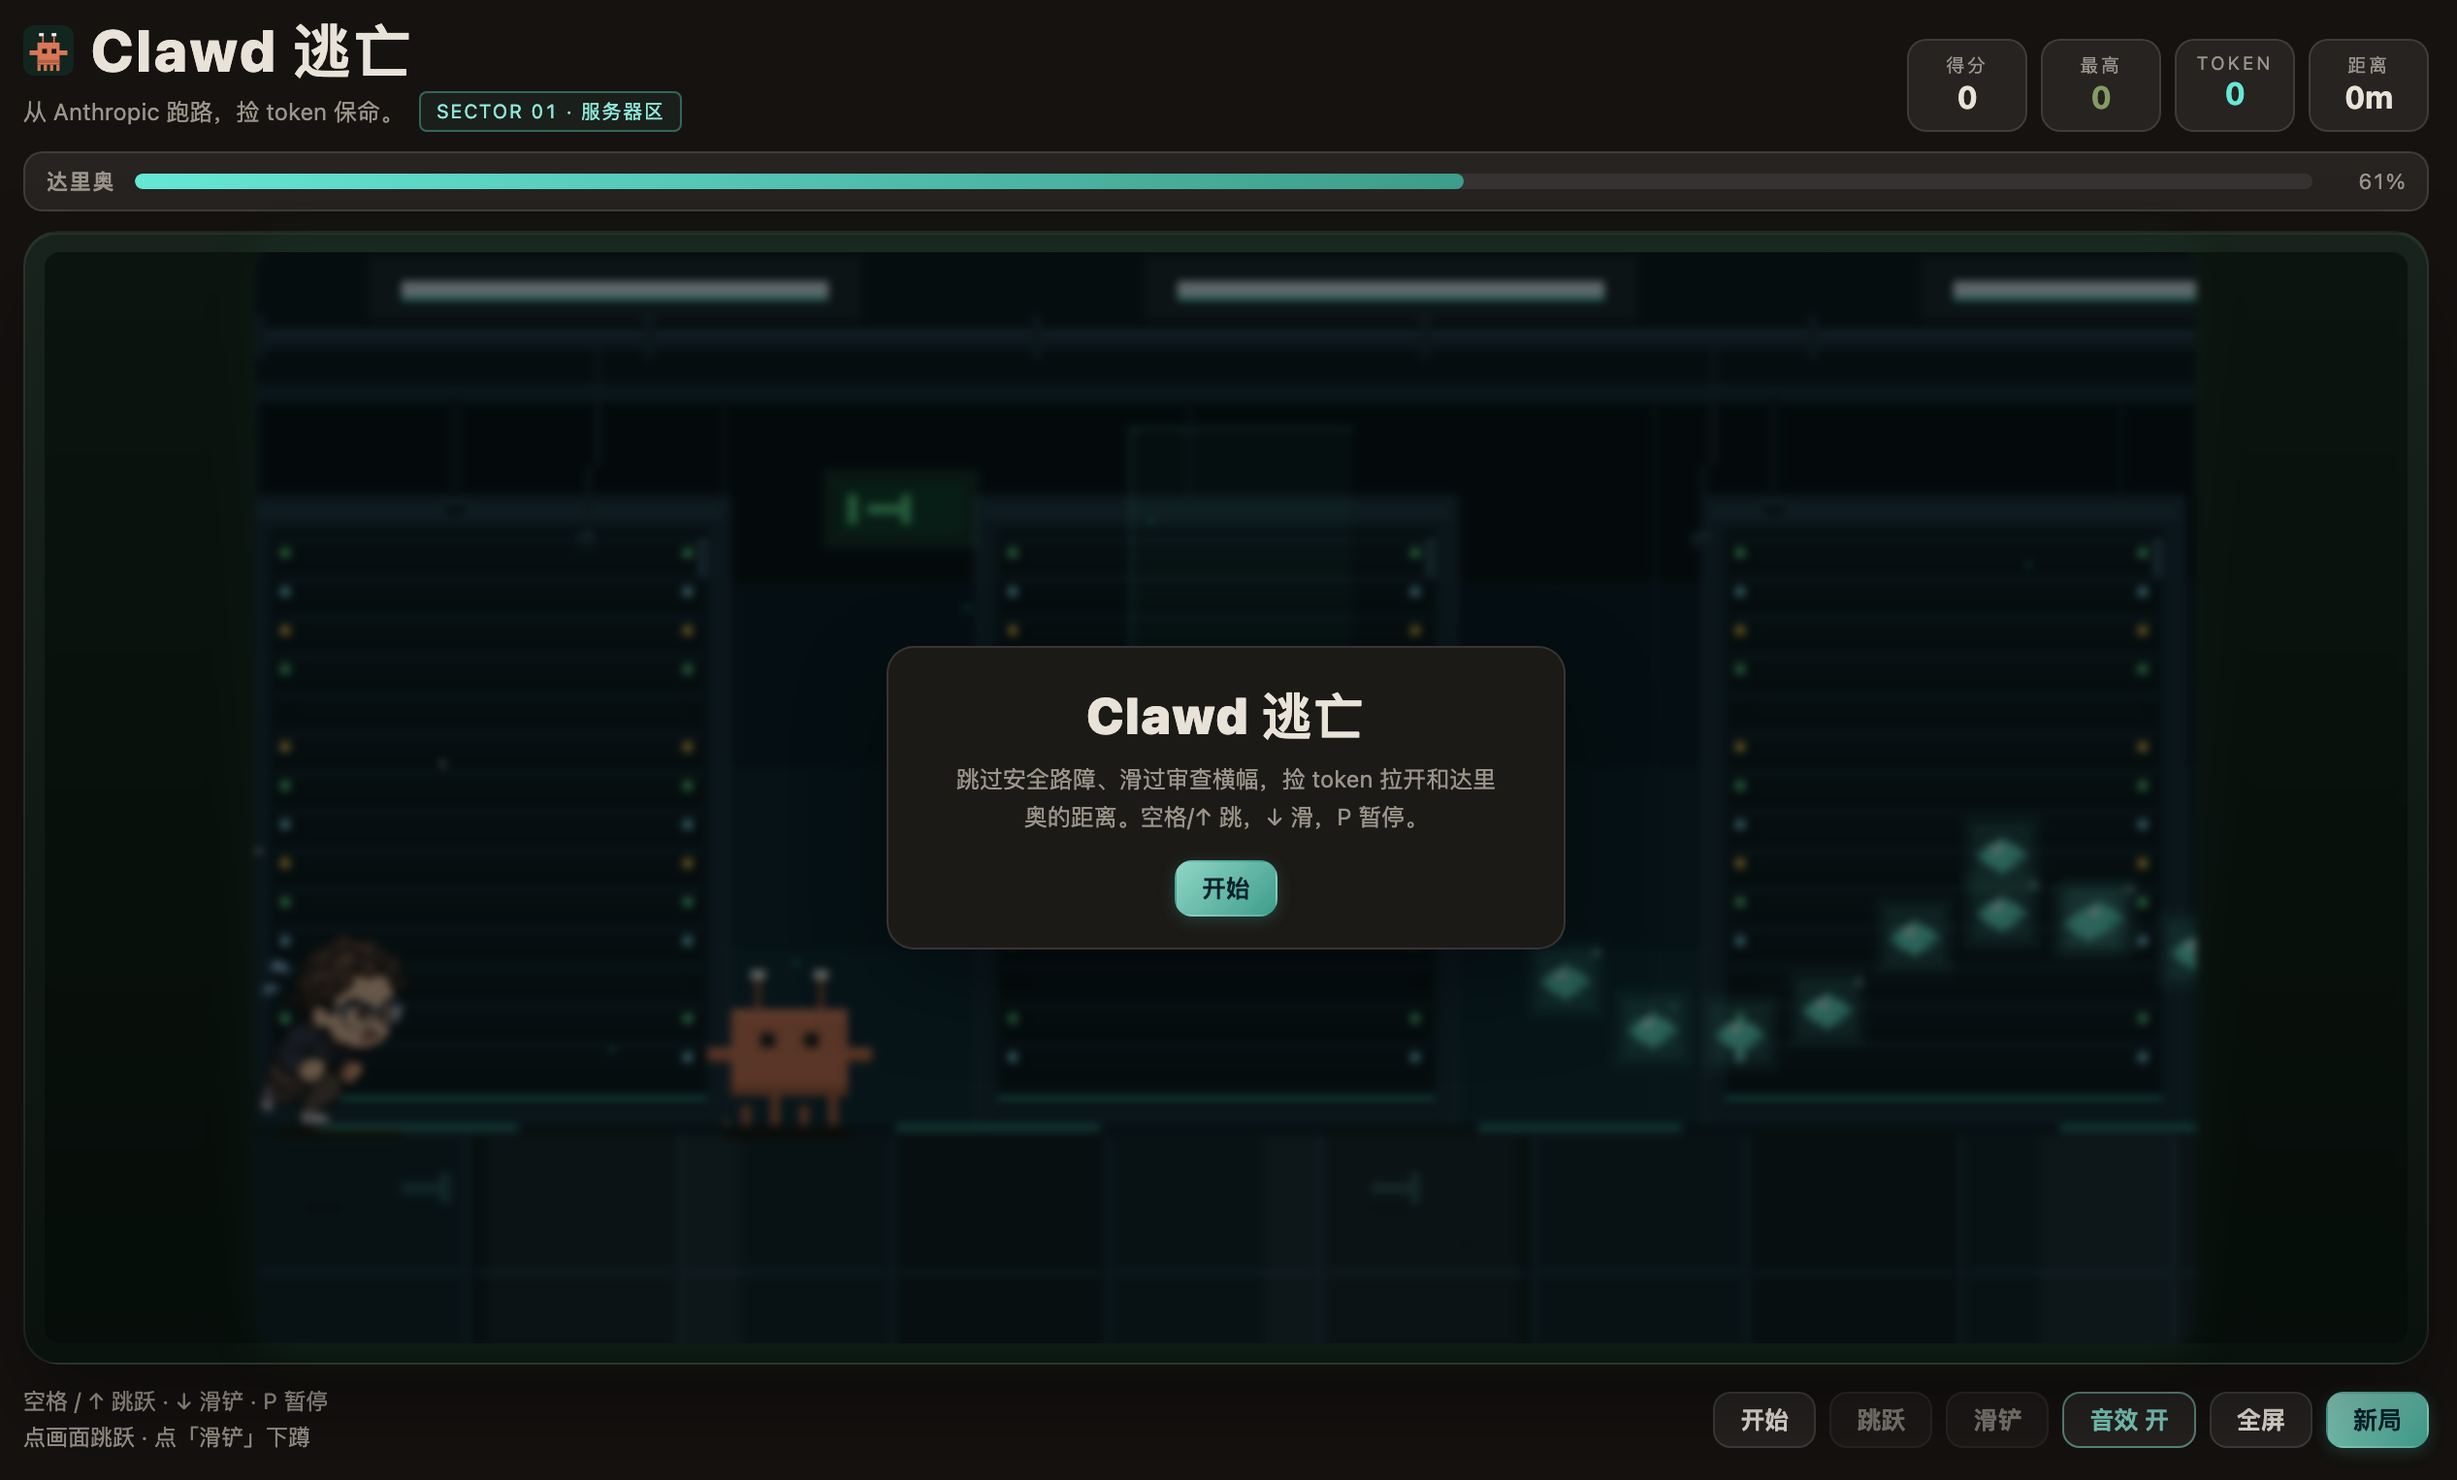
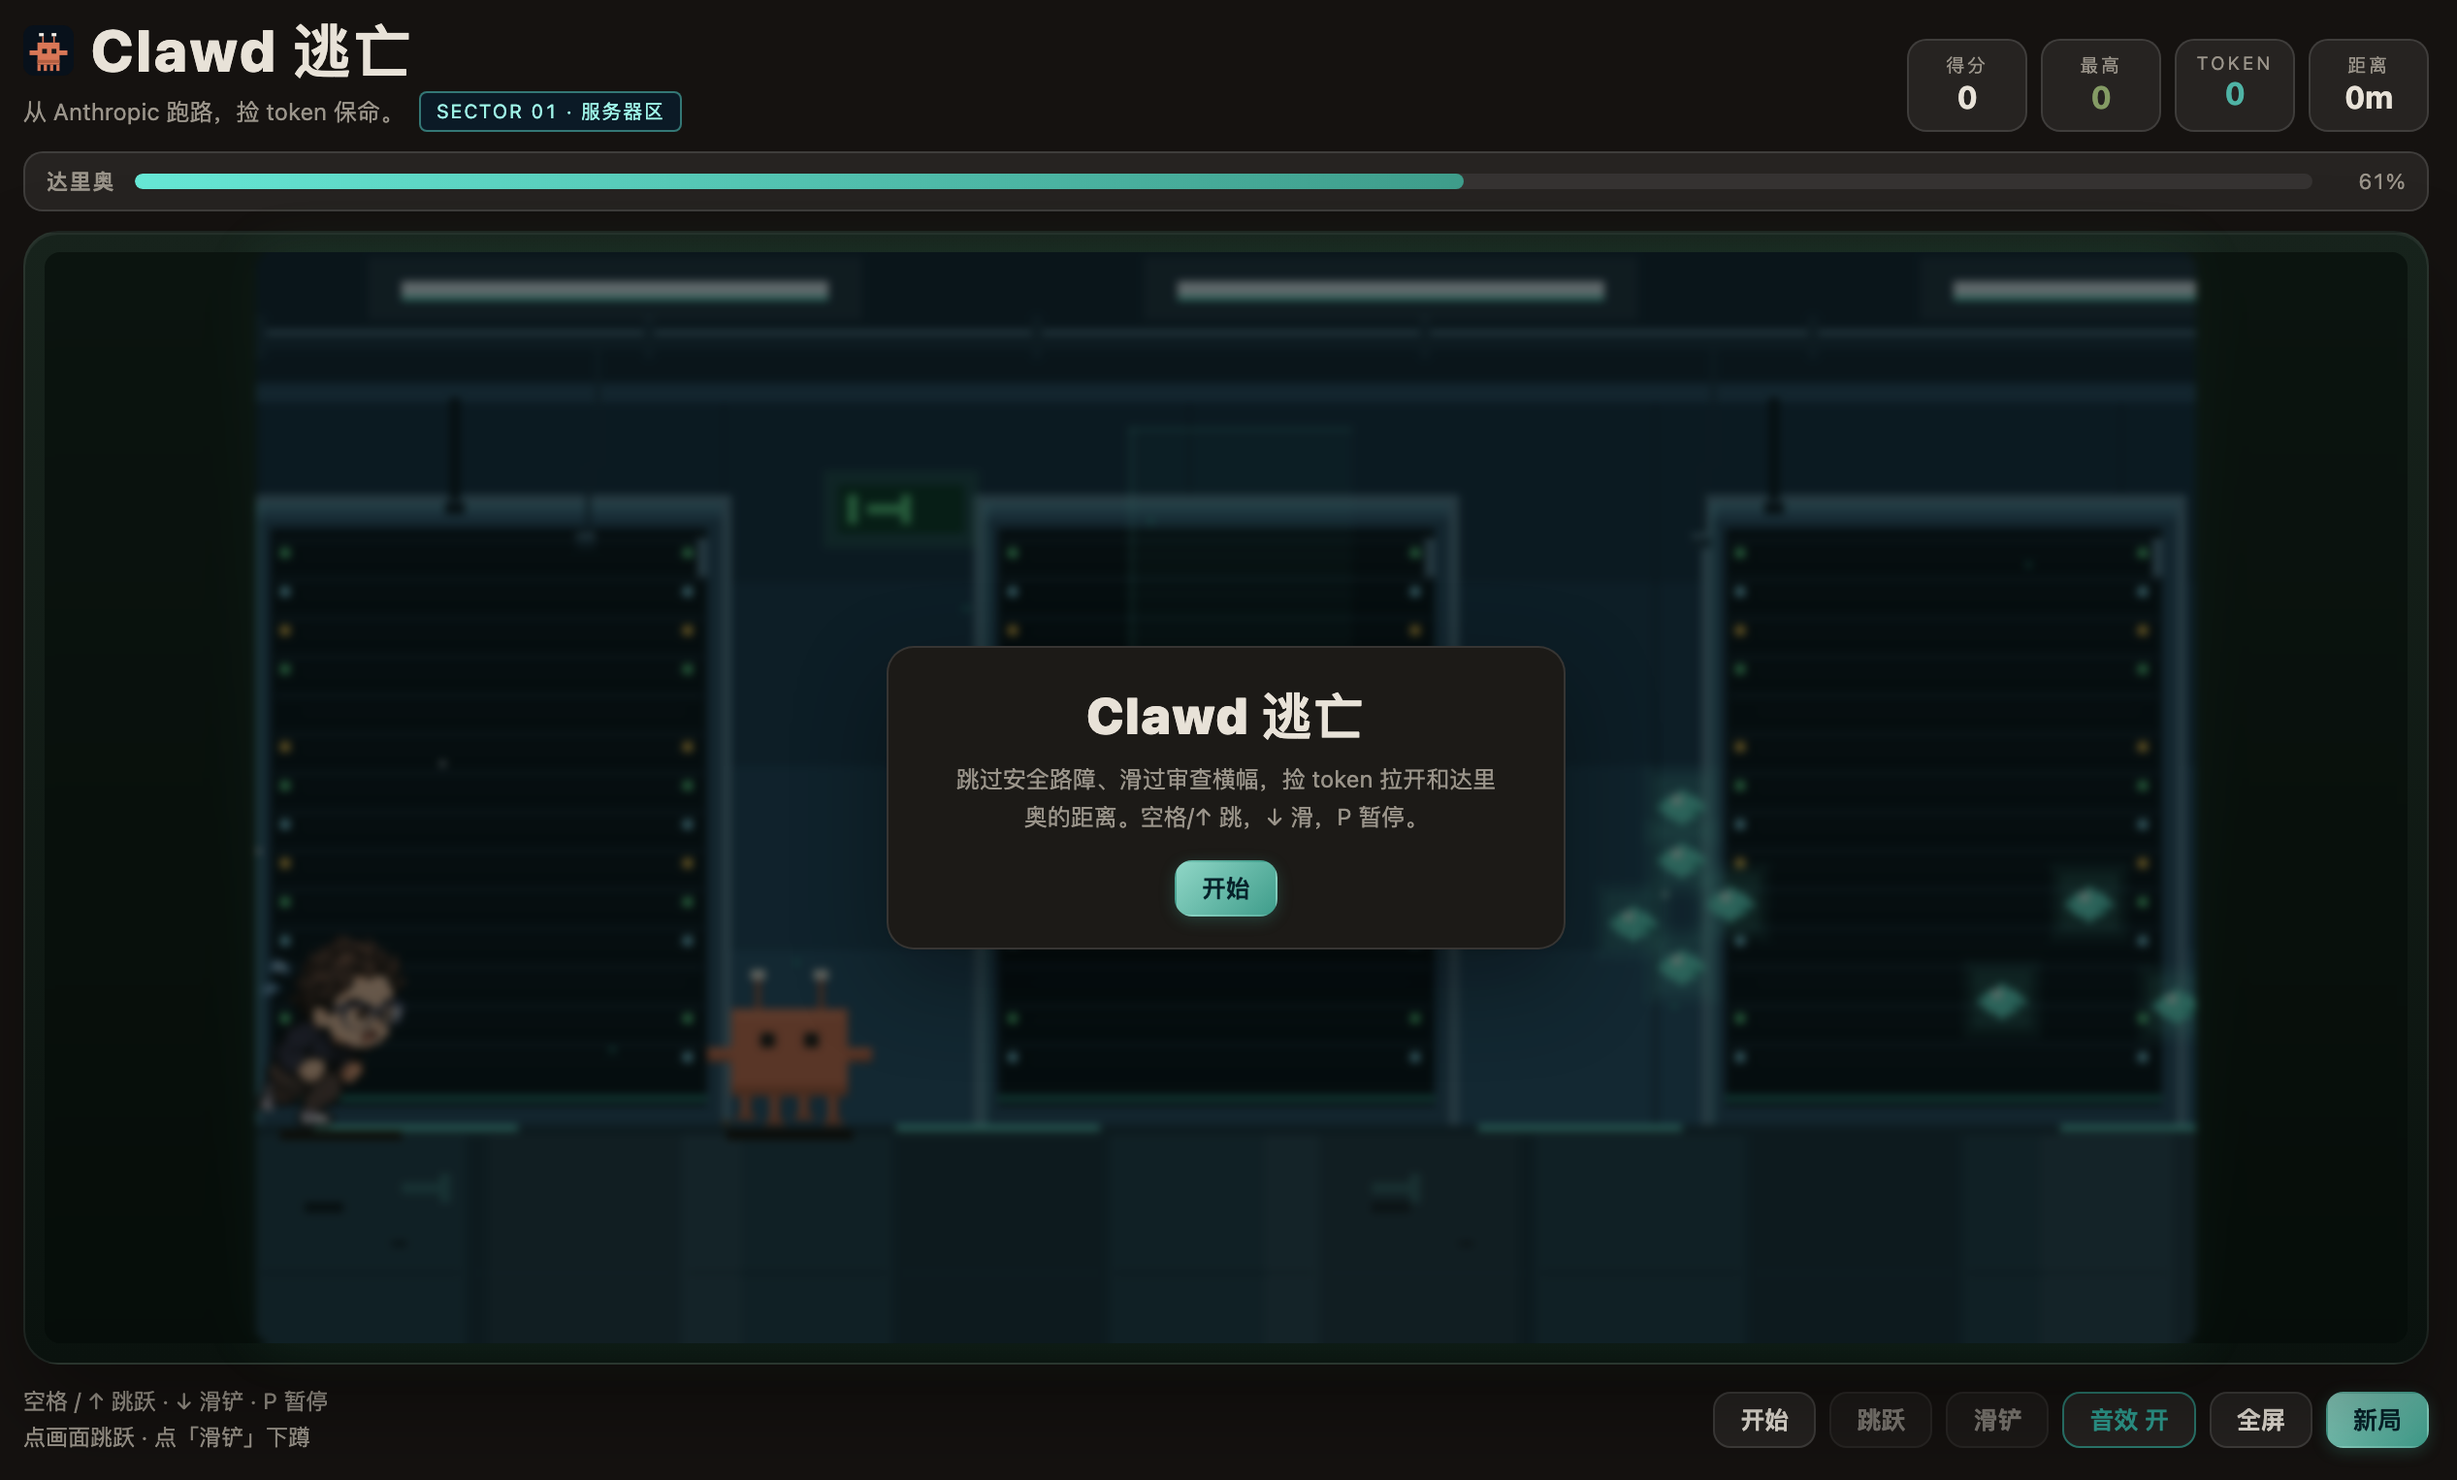
fix: 0.3.1 提亮场景/UI 对比度，修正 Clawd 腿与身体断开

diff --git a/lib/client.js b/lib/client.js
@@ -664,16 +664,16 @@ window.__ModuleLoader__.load({
     }
 
     // ── 画面：400×225 现代数据中心 ──────────────────────────────────────────
-    const SKY = ['#050b13', '#071523', '#0a1d2b', '#0d2634']
-    const CEIL = '#08111b'
-    const PANEL = '#142738'
-    const PANEL_LIGHT = '#1e364a'
-    const METAL = '#2f4a5f'
-    const METAL_HI = '#557790'
-    const METAL_DARK = '#192b3b'
-    const FLOOR = '#0c161f'
-    const FLOOR_TILE = '#101f2b'
-    const FLOOR_HI = '#224a5e'
+    const SKY = ['#173249', '#1c3b55', '#224763', '#2a5472']
+    const CEIL = '#132638'
+    const PANEL = '#2a4d68'
+    const PANEL_LIGHT = '#3f6b88'
+    const METAL = '#5a8098'
+    const METAL_HI = '#8fb4c8'
+    const METAL_DARK = '#1d3548'
+    const FLOOR = '#1c3342'
+    const FLOOR_TILE = '#244152'
+    const FLOOR_HI = '#4a7f97'
     const CYAN = '#67e8d6'
     const CYAN_DIM = '#2f9f92'
     const WHITE_LIGHT = '#e8f4ff'
@@ -682,8 +682,8 @@ window.__ModuleLoader__.load({
     const LED_RED = '#f25f5c'
     const LED_BLUE = '#7fd0e8'
     const TOKEN = { main: '#67e8d6', hi: '#d9fff8', dark: '#2f9f92' }
-    const CRATE = { main: '#3d566b', hi: '#6f8da3', dark: '#223544', stripe: '#f2c14e' }
-    const LASER = { beam: '#ff5c5c', glow: 'rgba(255,92,92,.18)', post: '#314a5e', postHi: '#5b7a92' }
+    const CRATE = { main: '#6b8ba1', hi: '#a8c6d8', dark: '#2a3f4f', stripe: '#ffcc4d' }
+    const LASER = { beam: '#ff4d4d', glow: 'rgba(255,77,77,.28)', post: '#5a8098', postHi: '#a8c6d8' }
     const CLAWD = { body: '#e8875a', dark: '#b85f3a', belly: '#f6d3b3', eye: '#141414' }
     const DARIO = { suit: '#2b2f3a', suitHi: '#3a4050', shirt: '#d9d4c7', tie: '#b33a3a', skin: '#d9a77c', hair: '#2a2220', glasses: '#111820' }
     // 用户提供的 Running-Dario.gif，已拆成 12 帧精灵表内嵌（透明底）。
@@ -715,7 +715,7 @@ window.__ModuleLoader__.load({
     }
 
     function drawRack(ctx, x, y, width, height, seed, now) {
-      ctx.fillStyle = METAL_DARK
+      ctx.fillStyle = METAL
       ctx.fillRect(x - 2, y - 2, width + 4, height + 4)
       ctx.fillStyle = PANEL
       ctx.fillRect(x, y, width, height)
@@ -741,6 +741,9 @@ window.__ModuleLoader__.load({
       ctx.fillRect(x + width - 5, y + 7, 2, 8)
       ctx.fillStyle = CYAN_DIM
       ctx.fillRect(x + 3, y + height - 6, width - 6, 1)
+      ctx.fillStyle = 'rgba(120,220,230,.35)'
+      ctx.fillRect(x, y, width, 1)
+      ctx.fillRect(x, y, 1, height)
     }
 
     function drawFan(ctx, cx, cy, radius, now, seed) {
@@ -887,9 +890,9 @@ window.__ModuleLoader__.load({
       const stripOffset = -((worldX) % 120)
       for (let i = 0; i < 5; i += 1) {
         const x = Math.round(stripOffset + i * 120 + 12)
-        ctx.fillStyle = CYAN_DIM
+        ctx.fillStyle = CYAN
         ctx.fillRect(x, GROUND_Y, 42, 1)
-        ctx.globalAlpha = 0.10
+        ctx.globalAlpha = 0.16
         ctx.fillStyle = CYAN
         ctx.fillRect(x, GROUND_Y + 1, 42, 3)
         ctx.globalAlpha = 1
@@ -1012,6 +1015,12 @@ window.__ModuleLoader__.load({
       ctx.fillRect(x + 1, GROUND_Y + 1, width - 2, 2)
       if (obstacle.type === 'low') {
         // 倒下的服务器机箱 / 机架模块
+        ctx.globalAlpha = 0.14
+        ctx.fillStyle = CRATE.stripe
+        ctx.fillRect(x - 4, GROUND_Y - LOW_H - 4, LOW_W + 8, LOW_H + 8)
+        ctx.globalAlpha = 1
+        ctx.fillStyle = '#05090d'
+        ctx.fillRect(x - 1, GROUND_Y - LOW_H - 1, LOW_W + 2, LOW_H + 1)
         ctx.fillStyle = CRATE.dark
         ctx.fillRect(x, GROUND_Y - LOW_H, LOW_W, LOW_H)
         ctx.fillStyle = CRATE.main
@@ -1096,7 +1105,8 @@ window.__ModuleLoader__.load({
         ctx.fillStyle = '#170f09'
         ctx.fillRect(x - 13, GROUND_Y + 1, 26, 2)
       }
-      // 四条腿（先画，压在身体下面）
+      // 四条腿（先画，压在身体下面；顶端固定接在身体底边，不再和身体断开）
+      const bodyBottom = bodyTop + bodyHeight
       if (sliding) {
         ctx.fillStyle = shade
         ctx.fillRect(bodyLeft + 1, feet - 4, 5, 4)
@@ -1107,9 +1117,16 @@ window.__ModuleLoader__.load({
       } else {
         const legOffsets = [2, 8, 14, 20]
         for (let i = 0; i < legOffsets.length; i += 1) {
-          const lift = airborne ? 3 : (i % 2 === phase ? 2 : 0)
+          const swing = airborne ? 2 : (i % 2 === phase ? 1 : 0)
+          const top = bodyBottom - 1
+          const bottom = feet - (airborne ? 3 : swing)
+          if (bottom <= top) continue
           ctx.fillStyle = shade
-          ctx.fillRect(bodyLeft + legOffsets[i], feet - 6 + lift, 2, 6 - lift)
+          ctx.fillRect(bodyLeft + legOffsets[i], top, 2, bottom - top)
+          ctx.fillStyle = bodyColor
+          ctx.fillRect(bodyLeft + legOffsets[i], top, 1, Math.max(1, bottom - top - 1))
+          ctx.fillStyle = shade
+          ctx.fillRect(bodyLeft + legOffsets[i] - 1, bottom - 1, 4, 1)
         }
       }
       // 手臂（中段，左右各一截）
@@ -1211,13 +1228,13 @@ window.__ModuleLoader__.load({
       '.cr-logo{display:flex;flex:0 0 auto}',
       '.cr-title{font-size:30px;font-weight:800;line-height:1;letter-spacing:.04em;color:var(--dsw-alias-label-primary,inherit)}',
       '.cr-sub{font-size:12px;line-height:1.5;color:var(--dsw-alias-label-secondary,#9a9a9a)}',
-      '.cr-sector{display:inline-block;margin-left:8px;padding:2px 8px;border-radius:4px;border:1px solid rgba(103,232,214,.35);background:rgba(103,232,214,.06);font-size:10px;letter-spacing:.08em;color:#8fe8da;vertical-align:1px;font-variant-numeric:tabular-nums}',
+      '.cr-sector{display:inline-block;margin-left:8px;padding:2px 8px;border-radius:4px;border:1px solid rgba(103,232,214,.45);background:#0b1a26;font-size:10px;letter-spacing:.08em;color:#9ff5e8;vertical-align:1px;font-variant-numeric:tabular-nums}',
       '.cr-stats{display:flex;gap:7px;flex-wrap:wrap}',
       '.cr-stat{min-width:62px;padding:6px 9px;border-radius:10px;box-sizing:border-box;text-align:center;background:var(--dsw-alias-bg-layer-2,rgba(127,127,127,.12));border:1px solid var(--dsw-alias-border-l1,rgba(127,127,127,.2))}',
       '.cr-stat-k{font-size:9.5px;letter-spacing:.14em;text-transform:uppercase;color:var(--dsw-alias-label-secondary,#9a9a9a)}',
       '.cr-stat-v{font-size:16px;font-weight:700;line-height:1.3;font-variant-numeric:tabular-nums;color:var(--dsw-alias-label-primary,inherit)}',
       '.cr-stat.is-best .cr-stat-v{color:#849b64}',
-      '.cr-stat.is-token .cr-stat-v{color:#67e8d6}',
+      '.cr-stat.is-token .cr-stat-v{color:#4fb3a5}',
       '.cr-chase{display:flex;align-items:center;gap:10px;padding:7px 11px;border-radius:10px;box-sizing:border-box;background:var(--dsw-alias-bg-layer-2,rgba(127,127,127,.1));border:1px solid var(--dsw-alias-border-l1,rgba(127,127,127,.18))}',
       '.cr-chase-label{flex:0 0 auto;font-size:11px;font-weight:700;letter-spacing:.08em;color:var(--dsw-alias-label-secondary,#9a9a9a)}',
       '.cr-chase-track{flex:1 1 auto;height:8px;border-radius:999px;overflow:hidden;background:rgba(127,127,127,.18)}',
@@ -1246,7 +1263,7 @@ window.__ModuleLoader__.load({
       '.cr-btn:hover:not(:disabled){background:var(--dsw-alias-bg-layer-1,rgba(127,127,127,.2));border-color:var(--dsw-alias-border-l2,rgba(127,127,127,.4))}',
       '.cr-btn:active:not(:disabled){transform:translateY(1px)}',
       '.cr-btn:disabled{opacity:.42;cursor:default;transform:none}',
-      '.cr-btn.is-on{border-color:rgba(127,208,192,.6);color:#7fd0c0}',
+      '.cr-btn.is-on{border-color:rgba(47,159,146,.7);color:#2f9f92}',
       '.cr-btn.is-primary{background:linear-gradient(135deg,#8fd6c6,#3f9d8b);border-color:transparent;color:#06222a;box-shadow:0 2px 8px rgba(63,157,139,.28)}',
       '.cr-btn.is-primary:hover:not(:disabled){background:linear-gradient(135deg,#a0e2d2,#4aab98)}',
       '.cr-btn:focus-visible,.cr-canvas:focus-visible{outline:2px solid #7fd0c0;outline-offset:2px}',
